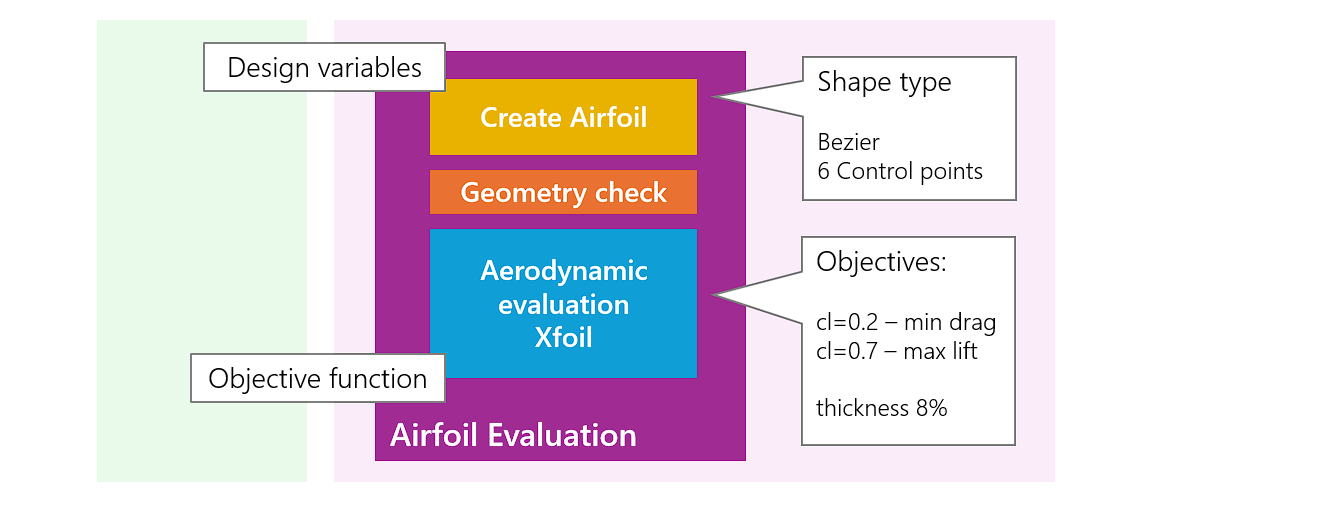
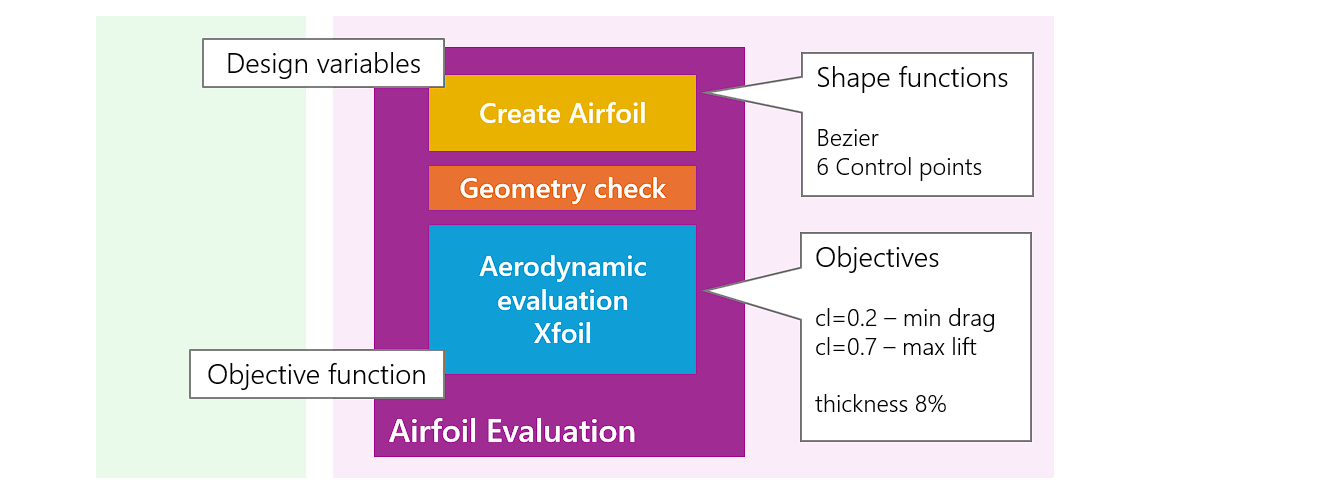
docs

diff --git a/docs/airfoil_optimization/objectives.md b/docs/airfoil_optimization/objectives.md
@@ -1,0 +1,36 @@
+---
+layout: home
+title: Objectives  
+nav_order: 6
+parent: Airfoil Optimization
+permalink: docs/objectives
+---
+
+# Defining objectives 
+
+... of an optimization. 
+{: .fs-5 .fw-300 }
+
+## Objective function 
+
+### Multi objectives - Pareto Front - Weighting
+### Dynamic weighting 
+### Local minima
+
+## Aerodynamic 
+
+### Operating Points
+
+### Min/Max Objectives  
+
+### Target Objectives 
+
+#### Allow improved targets 
+
+## Geometry
+
+### Constraints vs. Targets 
+### Camber & Thickness 
+#### Presetting 
+
+## Example 

diff --git a/docs/airfoil_optimization/airfoil_geometry.md b/docs/airfoil_optimization/airfoil_geometry.md
@@ -1,0 +1,22 @@
+---
+layout: home
+title: Geometry of an Airfoil 
+nav_order: 2
+parent: Airfoil Optimization
+permalink: docs/airfoil_geometry
+---
+
+# Geometry of an Airfoil 
+
+Lore ipsum .... 
+{: .fs-5 .fw-300 }
+
+## Points and Panels 
+Lore ipsum
+## Curvature
+Lore ipsum
+### Leading edge 
+### Trailing edge 
+### Bumps 
+## Normalizing 
+Lore ipsum

diff --git a/docs/airfoil_optimization/shape_functions.md b/docs/airfoil_optimization/shape_functions.md
@@ -1,0 +1,22 @@
+---
+layout: home
+title: Shape functions 
+nav_order: 4
+parent: Airfoil Optimization
+permalink: docs/shape_functions
+---
+
+# Shaping an Airfoil 
+
+As Xoptfoil2 lore ipsum. 
+{: .fs-5 .fw-300 }
+
+## Camber-Thickness
+lore ipsum
+## Bezier 
+lore ipsum
+## Hicks-Henne
+lore ipsum
+
+## Geometry constraints 
+lore ipsum

diff --git a/docs/airfoil_optimization/overview.md b/docs/airfoil_optimization/overview.md
@@ -11,6 +11,7 @@ permalink: docs/airfoil_optimization
 As Xoptfoil2 ... 
 {: .fs-5 .fw-300 }
 
+## Fundamentals of Optimization
 Some text here
 ![Bascis 1](../images/optimization_basics_1.png)
 ... and there 
